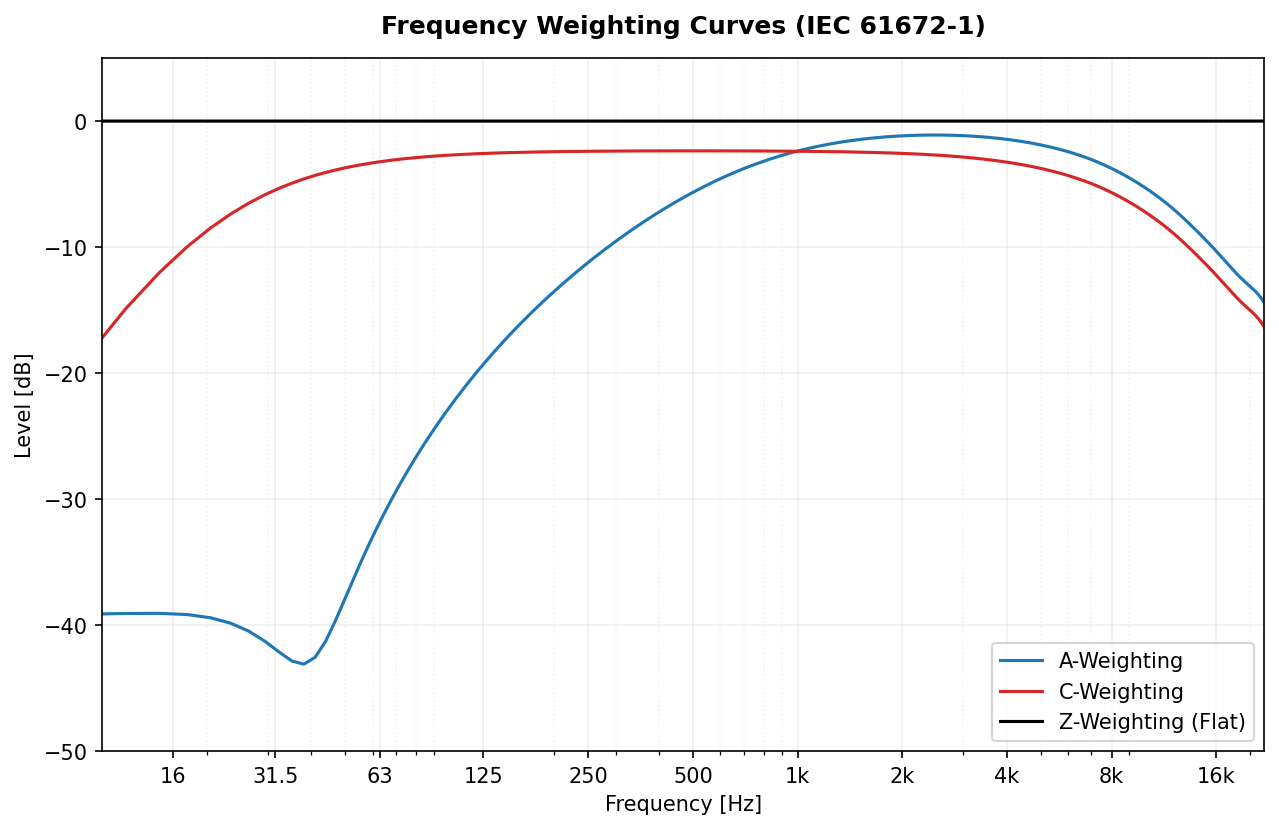
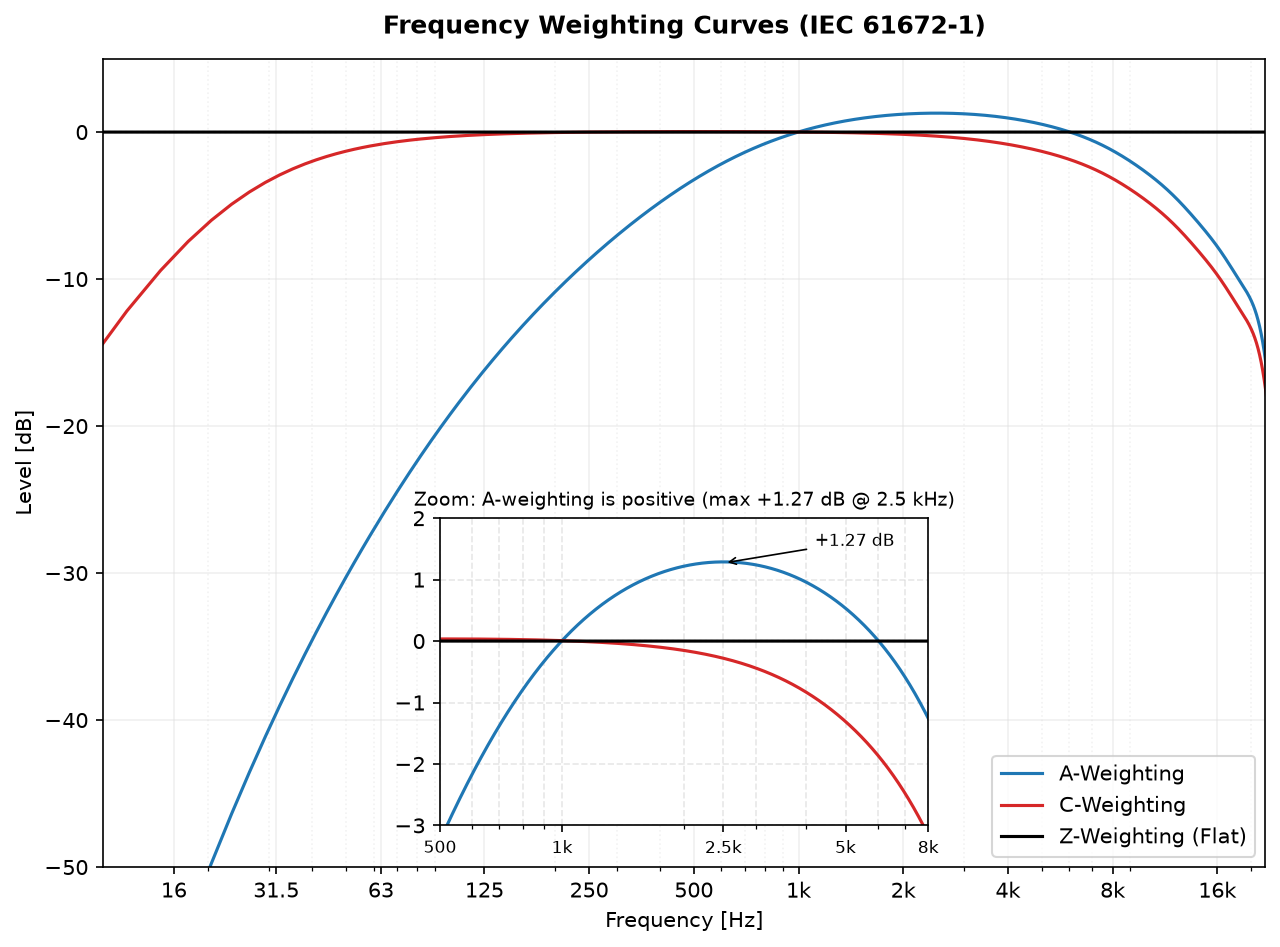
fix: weighting response graph measured a truncated impulse response
The graph measured the curves via an impulse at sample 0. The
high-accuracy weighting path resamples with polyphase FIRs, so the
interpolation kernel centered on sample 0 lost its anti-causal half
(edge truncation): the plotted A/C curves sat ~2.4 dB low at 1 kHz,
never crossed 0 dB, and showed a bogus -40 dB floor at low frequencies.

The impulse is now centered in the buffer (linear phase only, magnitude
intact) and the figure gained a zoom inset showing the positive region
of the A-curve (+1.27 dB max at 2.5 kHz per IEC 61672-1 Table 2), with
a 0 dB reference line.

New regression test pins the Table 2 positive values (1.25-5 kHz) via
steady-state tone measurement.

Claude-Session: https://claude.ai/code/session_013kkVt3nxi9svp1an28uHxf

diff --git a/generate_graphs.py b/generate_graphs.py
@@ -405,28 +405,58 @@ def generate_weighting_responses(output_dir: str) -> None:
     """Plot A, C and Z weighting frequency responses."""
     print("Generating weighting_responses.png...")
     fs = 48000
-    
+
     from pyoctaveband import weighting_filter
-    
-    _, ax = plt.subplots()
-    
+
+    _, ax = plt.subplots(figsize=(10, 7))
+
+    # Zoom inset: the A curve is POSITIVE (+1.27 dB max at ~2.5 kHz per
+    # IEC 61672-1 Table 2), invisible at the full -50..5 dB scale.
+    from mpl_toolkits.axes_grid1.inset_locator import inset_axes
+    axins = inset_axes(ax, width="42%", height="38%", loc="lower center", borderpad=2)
+    axins.set_xscale("log")
+
     curves = [
         ("A", "A-Weighting", COLOR_PRIMARY),
         ("C", "C-Weighting", COLOR_SECONDARY),
         ("Z", "Z-Weighting (Flat)", COLOR_FG)
     ]
-    
+
     for code, label, color in curves:
-        # We need to measure response. Simplest way: IR then FFT
+        # Measure the response via impulse response + FFT. The impulse is
+        # placed at the CENTER of the buffer: the high-accuracy weighting
+        # path resamples with polyphase FIRs, and an impulse at sample 0
+        # loses the anti-causal half of the interpolation kernel (edge
+        # truncation), distorting the measured spectrum. Centering only
+        # adds linear phase, which does not affect the magnitude.
         impulse = np.zeros(fs)
-        impulse[0] = 1.0
+        impulse[fs // 2] = 1.0
         weighted = weighting_filter(impulse, fs, curve=code)
-        
+
         # Frequency response
         w, h = scipy_signal.freqz(weighted, [1], worN=8192, fs=fs)
-        ax.semilogx(w, 20 * np.log10(np.abs(h) + 1e-9), label=label, color=color)
+        mag_db = 20 * np.log10(np.abs(h) + 1e-9)
+        ax.semilogx(w, mag_db, label=label, color=color)
+        axins.plot(w, mag_db, color=color)
 
+    ax.axhline(0, color=COLOR_FG, linestyle=":", alpha=0.3, linewidth=1)
     apply_axis_styling(ax, "Frequency Weighting Curves (IEC 61672-1)", xlim=(10, 22000), ylim=(-50, 5))
+
+    axins.axhline(0, color=COLOR_FG, linestyle=":", alpha=0.4, linewidth=1)
+    axins.set_xlim(500, 8000)
+    axins.set_ylim(-3, 2)
+    axins.grid(True, which="both", alpha=0.3)
+    axins.set_title("Zoom: A-weighting is positive (max +1.27 dB @ 2.5 kHz)", fontsize=9)
+    axins.annotate(
+        "+1.27 dB", xy=(2500, 1.27), xytext=(4200, 1.55), fontsize=8,
+        arrowprops={"arrowstyle": "->", "lw": 0.8},
+    )
+    from matplotlib.ticker import NullFormatter, ScalarFormatter
+    axins.xaxis.set_major_formatter(ScalarFormatter())
+    axins.xaxis.set_minor_formatter(NullFormatter())
+    axins.set_xticks([500, 1000, 2500, 5000, 8000])
+    axins.set_xticklabels(["500", "1k", "2.5k", "5k", "8k"], fontsize=8)
+
     ax.legend(loc="lower right")
     plt.savefig(themed_path(output_dir, "weighting_responses.png"))
     plt.close()

diff --git a/tests/test_parametric_filters.py b/tests/test_parametric_filters.py
@@ -521,3 +521,24 @@ def test_weighting_filter_empty_signal_high_accuracy() -> None:
     wf = WeightingFilter(48000, "A")
     y = wf.filter(np.array([]))
     assert y.shape == (0,)
+
+
+def test_a_weighting_positive_gain_region() -> None:
+    """
+    Verify the A-curve is POSITIVE between 1.25 and 5 kHz (IEC 61672-1 Table 2).
+
+    **Purpose:**
+    The A-weighting models equal-loudness sensitivity: the ear is MORE
+    sensitive than at 1 kHz around 2-4 kHz, so the curve must exceed 0 dB
+    there (max +1.27 dB at ~2.5 kHz). A curve that never crosses 0 dB
+    indicates a broken normalization or measurement.
+
+    **Verification (against IEC 61672-1 Table 2 values):**
+    - 1250 Hz: +0.6 | 2000 Hz: +1.2 | 2500 Hz: +1.3 | 4000 Hz: +1.0 | 5000 Hz: +0.5
+    """
+    fs = 48000
+    wf = WeightingFilter(fs, "A")
+    for f0, expected in [(1250, 0.6), (2000, 1.2), (2500, 1.3), (4000, 1.0), (5000, 0.5)]:
+        gain = _measured_gain_db(wf, fs, f0)
+        assert gain > 0, f"A-weighting must be positive at {f0} Hz, got {gain:.2f} dB"
+        assert gain == pytest.approx(expected, abs=0.15), f"{f0} Hz: {gain:.2f} dB vs Table 2 {expected}"